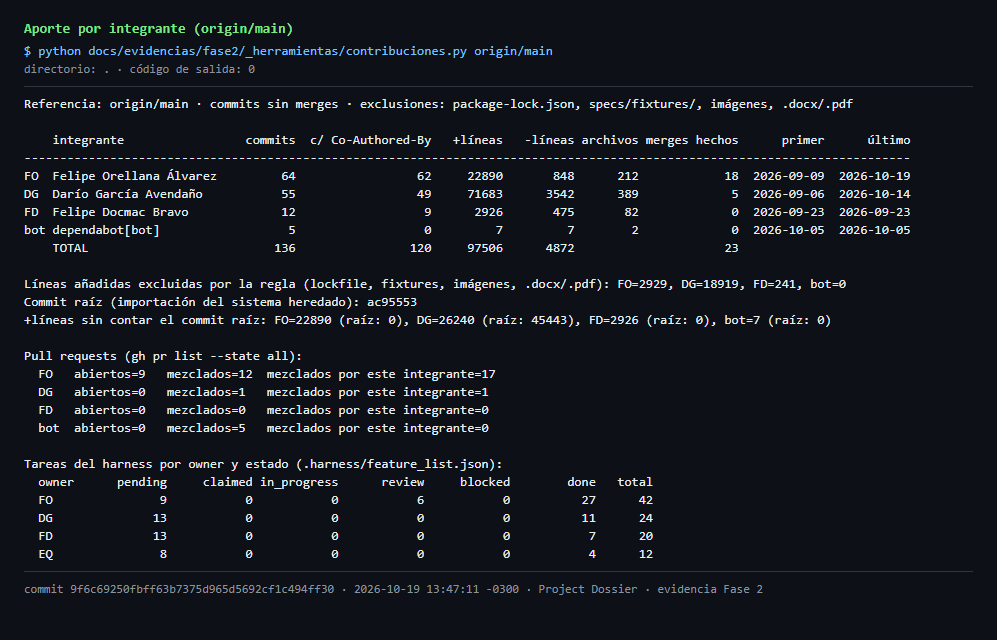
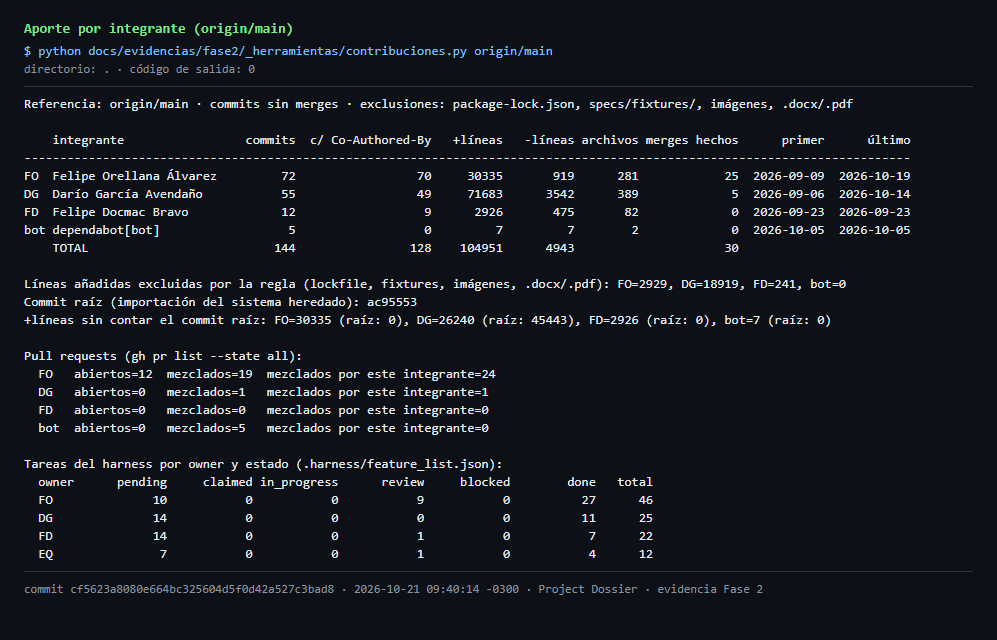
docs(evidencias): aporte recalculado sobre main y capturas aportadas por DG
Recalcula las cifras de contribuciones/ sobre cf5623a (estado de main al
cierre del 19-10-2026, tras los PR #34-#37): FO pasa de 64 a 72 commits
sin merges y de 22.890 a 30.335 líneas; DG y FD no cambian. Se regeneran
02-aporte-por-integrante.{txt,png} con ev.py y el gráfico con
grafico_contribuciones.py, y se actualiza el README.

Agrega dos capturas que DG preparó para su versión del informe:
- ci-cd/07-dokploy-monitoreo-vps.png: monitoreo de Dokploy en el VPS,
  con el correo de la cuenta tapado antes de versionarla.
- ui/18-selector-pais.png: selector de país de Personas.

Sin cambios de código (solo documentación y evidencias): no aplica la
regla de pruebas de qa.py, por eso --no-verify.

Task: entregable académico de la Fase 2 (sin tarea del harness)

diff --git a/docs/evidencias/fase2/contribuciones/README.md b/docs/evidencias/fase2/contribuciones/README.md
@@ -1,8 +1,8 @@
 # Evidencia: aporte de cada integrante
 
 Atiende el criterio de la rúbrica: «evidencias claras dentro del repositorio del aporte de cada uno de los
-integrantes». Calculado el 2026-10-19 sobre `origin/main` en el commit
-`9f6c69250fbff63b7375d965d5692cf1c494ff30`, con [`_herramientas/contribuciones.py`](../_herramientas/contribuciones.py).
+integrantes». Calculado sobre `origin/main` en el commit `cf5623a8080e664bc325604d5f0d42a527c3bad8`
+(estado de `main` al cierre del 19-10-2026, tras el PR #37; recalculado el 21-10-2026), con [`_herramientas/contribuciones.py`](../_herramientas/contribuciones.py).
 
 ## Alias de git
 
@@ -10,7 +10,7 @@ Verificados con `git shortlog -sne --all` ([01-git-shortlog-autores.txt](01-git-
 
 | Integrante | Sigla | Autores de git |
 |---|---|---|
-| Felipe Orellana Álvarez | FO | `Xamppy <fe.orellanaa@duocuc.cl>` y `Felipe Orellana <134563505+Xamppy@users.noreply.github.com>` (este segundo solo aparece en los 17 merges de PR hechos desde la web de GitHub) |
+| Felipe Orellana Álvarez | FO | `Xamppy <fe.orellanaa@duocuc.cl>` y `Felipe Orellana <134563505+Xamppy@users.noreply.github.com>` (este segundo solo aparece en los 24 merges de PR hechos desde la web de GitHub) |
 | Darío García Avendaño | DG | `darygod <dari.garcia@duocuc.cl>` y `darygod <134294253+darygod@users.noreply.github.com>` (1 merge desde la web, PR #2) |
 | Felipe Docmac Bravo | FD | `Felipe Docmac <fe.docmac@duocuc.cl>` |
 | (automatización) | bot | `dependabot[bot]`: 5 actualizaciones de acciones de GitHub |
@@ -21,22 +21,22 @@ No hay otros autores en el historial.
 
 | | FO | DG | FD |
 |---|---:|---:|---:|
-| Commits sin merges en `main` | **64** | **55** | **12** |
-| … con `Co-Authored-By` (asistidos por un agente) | 62 | 49 | 9 |
-| Líneas añadidas* | 22.890 | 71.683 | 2.926 |
-| Líneas añadidas* sin el commit raíz | **22.890** | **26.240** | **2.926** |
-| Líneas quitadas* | 848 | 3.542 | 475 |
-| Archivos distintos tocados* | 212 | 389 | 82 |
-| PR mezclados como autor | 12 | 1 | 0 |
-| PR abiertos como autor | 9 | 0 | 0 |
-| PR que mezcló | 17 | 1 | 0 |
+| Commits sin merges en `main` | **72** | **55** | **12** |
+| … con `Co-Authored-By` (asistidos por un agente) | 70 | 49 | 9 |
+| Líneas añadidas* | 30.335 | 71.683 | 2.926 |
+| Líneas añadidas* sin el commit raíz | **30.335** | **26.240** | **2.926** |
+| Líneas quitadas* | 919 | 3.542 | 475 |
+| Archivos distintos tocados* | 281 | 389 | 82 |
+| PR mezclados como autor | 19 | 1 | 0 |
+| PR abiertos como autor | 12 | 0 | 0 |
+| PR que mezcló | 24 | 1 | 0 |
 | Tareas del harness `done` | 27 | 11 | 7 |
-| Tareas del harness `review` | 6 | 0 | 0 |
-| Tareas del harness `pending` | 9 | 13 | 13 |
+| Tareas del harness `review` | 9 | 0 | 1 |
+| Tareas del harness `pending` | 10 | 14 | 14 |
 | Primer y último commit | 09-09 → 10-19 | 09-06 → 10-14 | 09-23 |
 
 \* Sin `package-lock.json`, `specs/fixtures/`, imágenes ni `.docx`/`.pdf`. Los binarios no suman líneas.
-Además hay 12 tareas con owner `EQ` (equipo completo): 4 `done`, 8 `pending`.
+Además hay 12 tareas con owner `EQ` (equipo completo): 4 `done`, 1 `review` y 7 `pending`.
 
 ![Aporte por integrante](aporte-por-integrante.png)
 
@@ -49,12 +49,12 @@ raíz, PR mezclados y tareas `done`), hecho con Chart.js 4.4.1 desde el JSON de 
 1. **El commit raíz es el sistema heredado.** `ac95553` («Initial commit: Dossier frontend and backend»,
    DG, 2026-09-06, 267 archivos, 53.529 líneas) importa el código que ya existía: este es un proyecto de
    continuidad. Por eso la tabla separa las líneas sin ese commit (DG: 45.443 de sus líneas vienen de ahí).
-2. **Los merges los firma quien mezcla, no quien escribió.** FO mezcló 17 de los 18 PR cerrados, incluidos
+2. **Los merges los firma quien mezcla, no quien escribió.** FO mezcló 24 de los 25 PR mezclados, incluidos
    los 5 de dependabot. Los merges no se cuentan como commits ni suman líneas. El trabajo de DG entró además
    por merges de ramas (`dario` → `FO`, commit `93781e6`, y `Merge branch 'FO' into dario`), no solo por PR:
    el conteo de PR subestima su aporte; sus commits sí aparecen con su autoría.
-3. **Asistencia de agentes.** 120 de los 136 commits sin merges llevan `Co-Authored-By` de un modelo de
-   Claude (70 Opus 5.5, 27 Sonnet 5, 17 Sonnet 5.5, 6 Opus 5; un commit puede tener más de uno). El autor
+3. **Asistencia de agentes.** 128 de los 144 commits sin merges llevan `Co-Authored-By` de un modelo de
+   Claude (78 Opus 5.5, 27 Sonnet 5, 17 Sonnet 5.5, 6 Opus 5; un commit puede tener más de uno). El autor
    de git es la persona que dirigió la sesión, revisó y firmó el commit. Las líneas miden volumen, no esfuerzo
    ni dificultad.
 4. **FD y la rama `docmac`.** Sus 12 commits son del 2026-09-23 (Tarea A3: Alembic, ruff y mypy, CI
@@ -67,8 +67,8 @@ raíz, PR mezclados y tareas `done`), hecho con Chart.js 4.4.1 desde el JSON de 
    - **no hay copias por cherry-pick**: 0 `patch-id` repetidos entre los commits de `main`, así que ningún
      trabajo de FD figura con otro autor. Sus 12 commits se cuentan completos como suyos.
 5. **Las tareas del harness miden asignación**, no solo ejecución: el `owner` es quien la tiene asignada en
-   el plan. Las 6 en `review` de FO esperan la revisión de un segundo integrante.
-6. **PR abiertos al momento de medir:** los 9 de FO incluyen correcciones del 2026-10-19 aún sin mezclar;
+   el plan. Las 9 en `review` de FO y la de FD esperan la revisión de un segundo integrante.
+6. **PR abiertos al momento de medir:** los 12 de FO incluyen correcciones del 2026-10-19 aún sin mezclar;
    las cifras cambian a medida que se integran.
 
 ## Cómo reproducir

diff --git a/docs/evidencias/fase2/ci-cd/README.md b/docs/evidencias/fase2/ci-cd/README.md
@@ -46,6 +46,7 @@ flowchart LR
 | [04-imagenes-docker-9-fallida.txt](04-imagenes-docker-9-fallida.txt) · [png](04-imagenes-docker-9-fallida.png) | La única falla de la ventana: Imágenes Docker #9 (id `39279047309`). |
 | [05-imagenes-docker-10-exitosa.txt](05-imagenes-docker-10-exitosa.txt) · [png](05-imagenes-docker-10-exitosa.png) | Imágenes Docker #10 (id `39281671569`) en verde, y `git diff --stat 29eb532 7d9c38b -- .github/workflows/imagenes.yml` vacío: el workflow no cambió entre #9 y #10. |
 | [06-workflows.txt](06-workflows.txt) · [png](06-workflows.png) | Contenido de `ci.yml` e `imagenes.yml`. |
+| [07-dokploy-monitoreo-vps.png](07-dokploy-monitoreo-vps.png) | Panel de monitoreo de Dokploy en el VPS (memoria usada 1,26 GiB de 1,87 GiB). Captura aportada por DG para el informe de la Fase 2; el correo de la cuenta se tapó antes de versionarla. Sin `.txt`: no es salida de un comando. |
 
 **Cómo se mide la duración.** La herramienta
 [`_herramientas/tabla_ejecuciones.py`](../_herramientas/tabla_ejecuciones.py) toma, por ejecución, el

diff --git a/docs/evidencias/fase2/ui/README.md b/docs/evidencias/fase2/ui/README.md
@@ -71,6 +71,7 @@ Todas son de hoy (2026-10-19) y del SHA `9f6c692`.
 | [`15-calendario-semana-ingles.png`](15-calendario-semana-ingles.png) | Calendario en inglés. La semana empieza en domingo y las horas van en formato de 12 h | `/dashboard/automation` |
 | [`16-resumen-tema-claro.png`](16-resumen-tema-claro.png) | Resumen en **tema claro**; las capturas 01 a 15 están en tema oscuro | `/dashboard` |
 | [`17-calendario-mes-tema-claro.png`](17-calendario-mes-tema-claro.png) | Calendario, vista Mes, en tema claro | `/dashboard/automation` |
+| [`18-selector-pais.png`](18-selector-pais.png) | Selector de país de Personas (BUG-2026-09-26-01). Captura aportada por DG para el informe de la Fase 2, fuera del ambiente de esta tabla | `/dashboard/person-research` |
 
 ### Consultas por intervalo registradas
 
